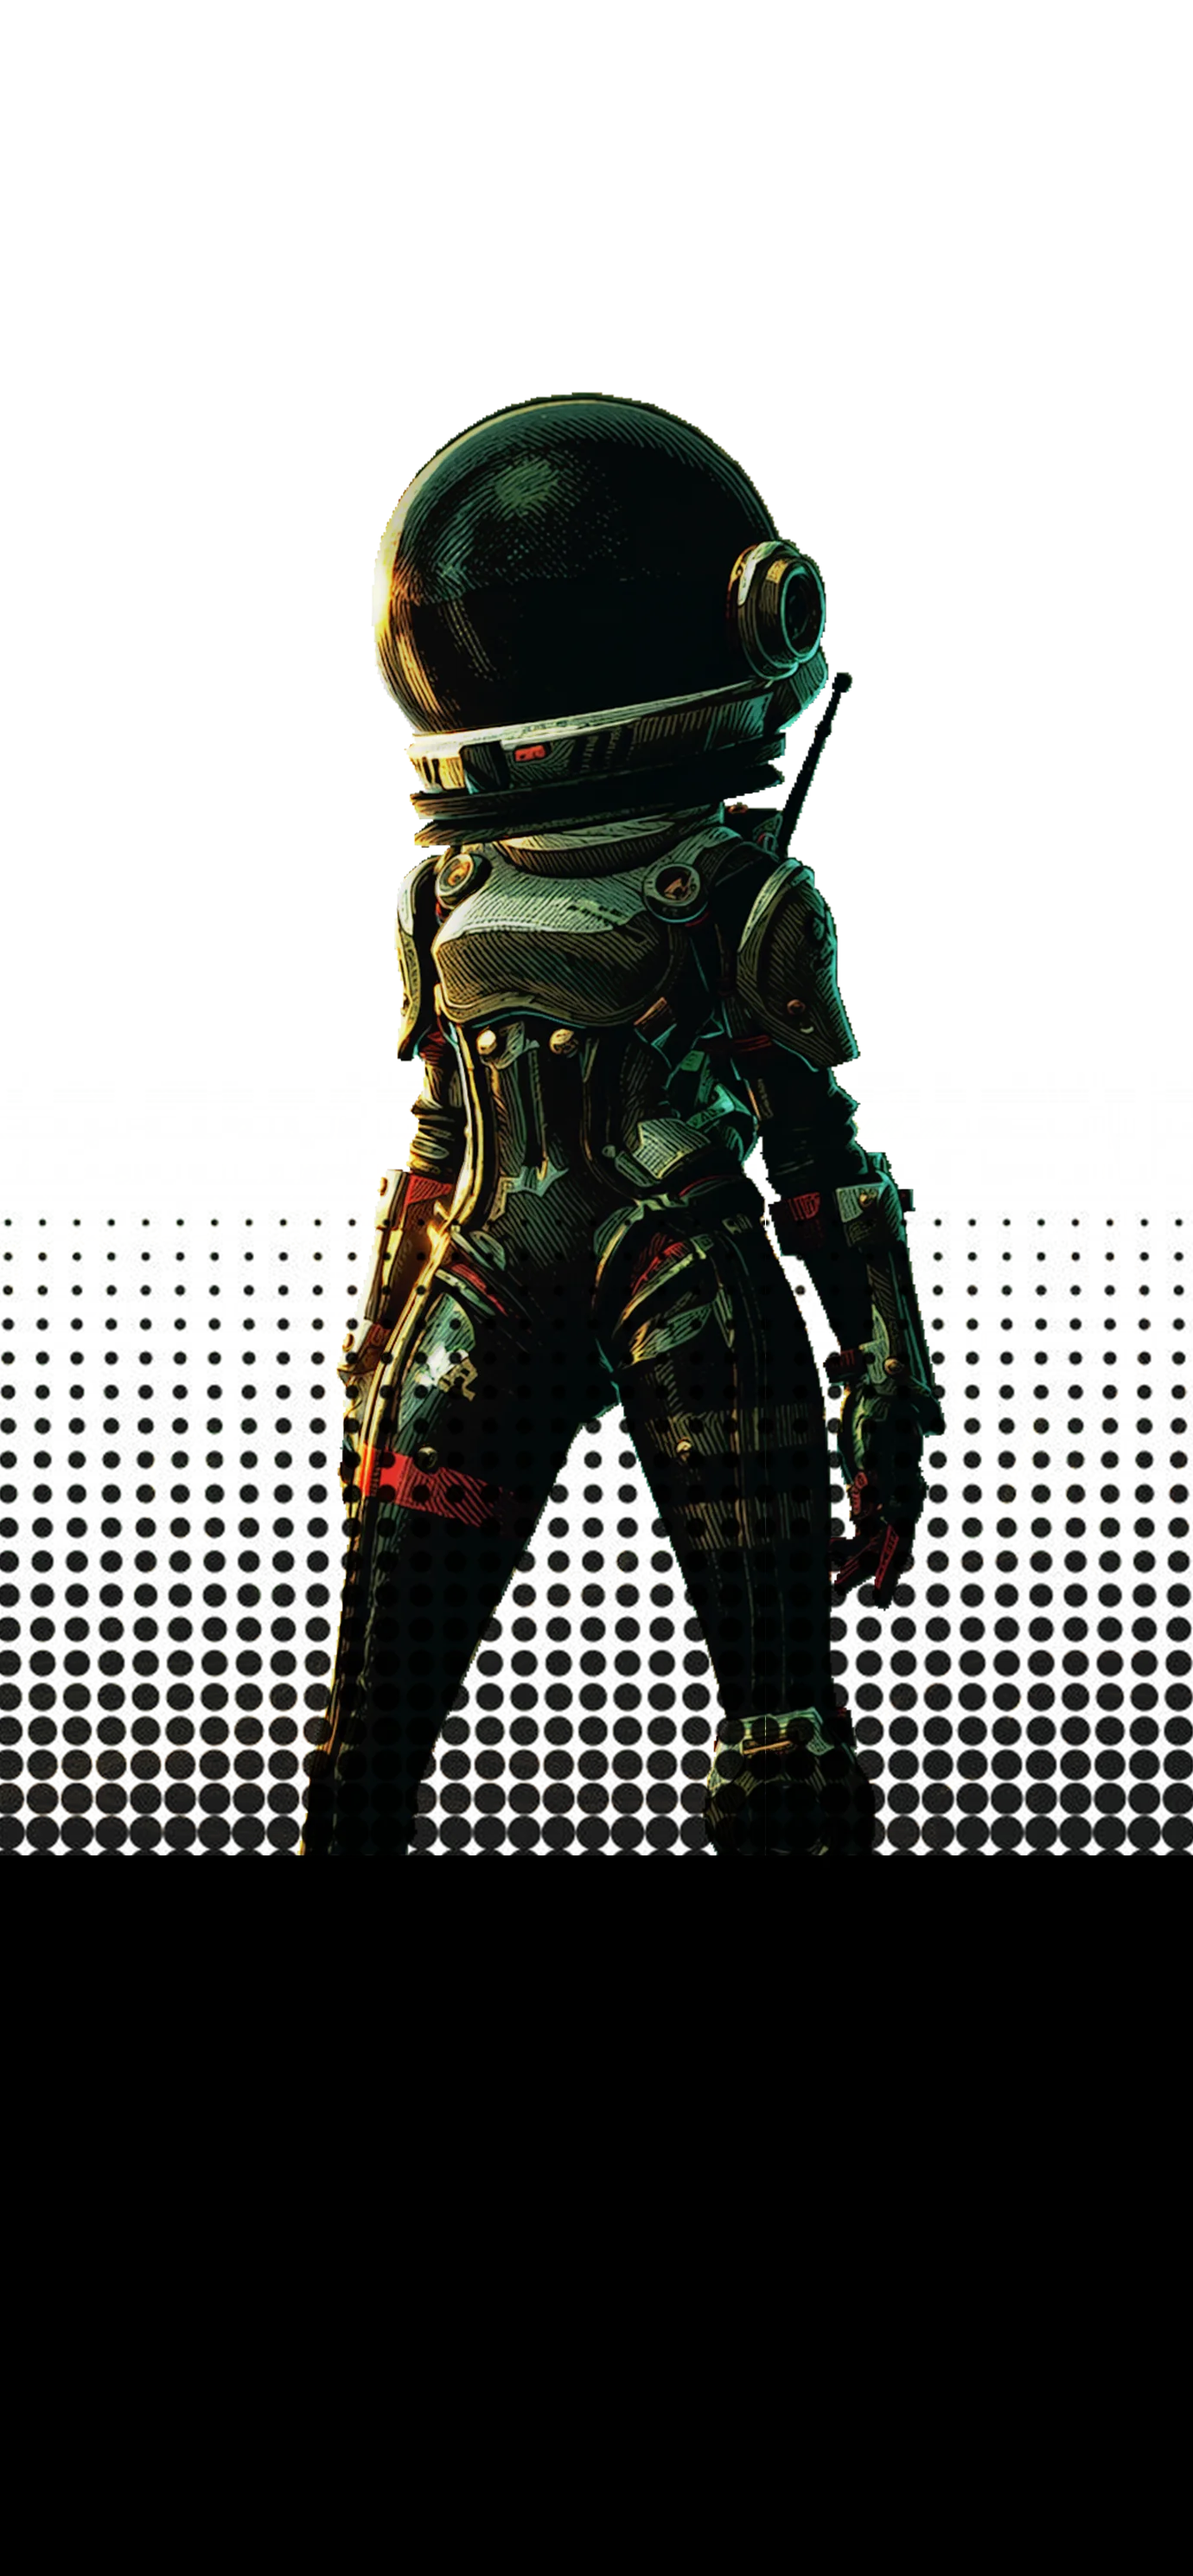
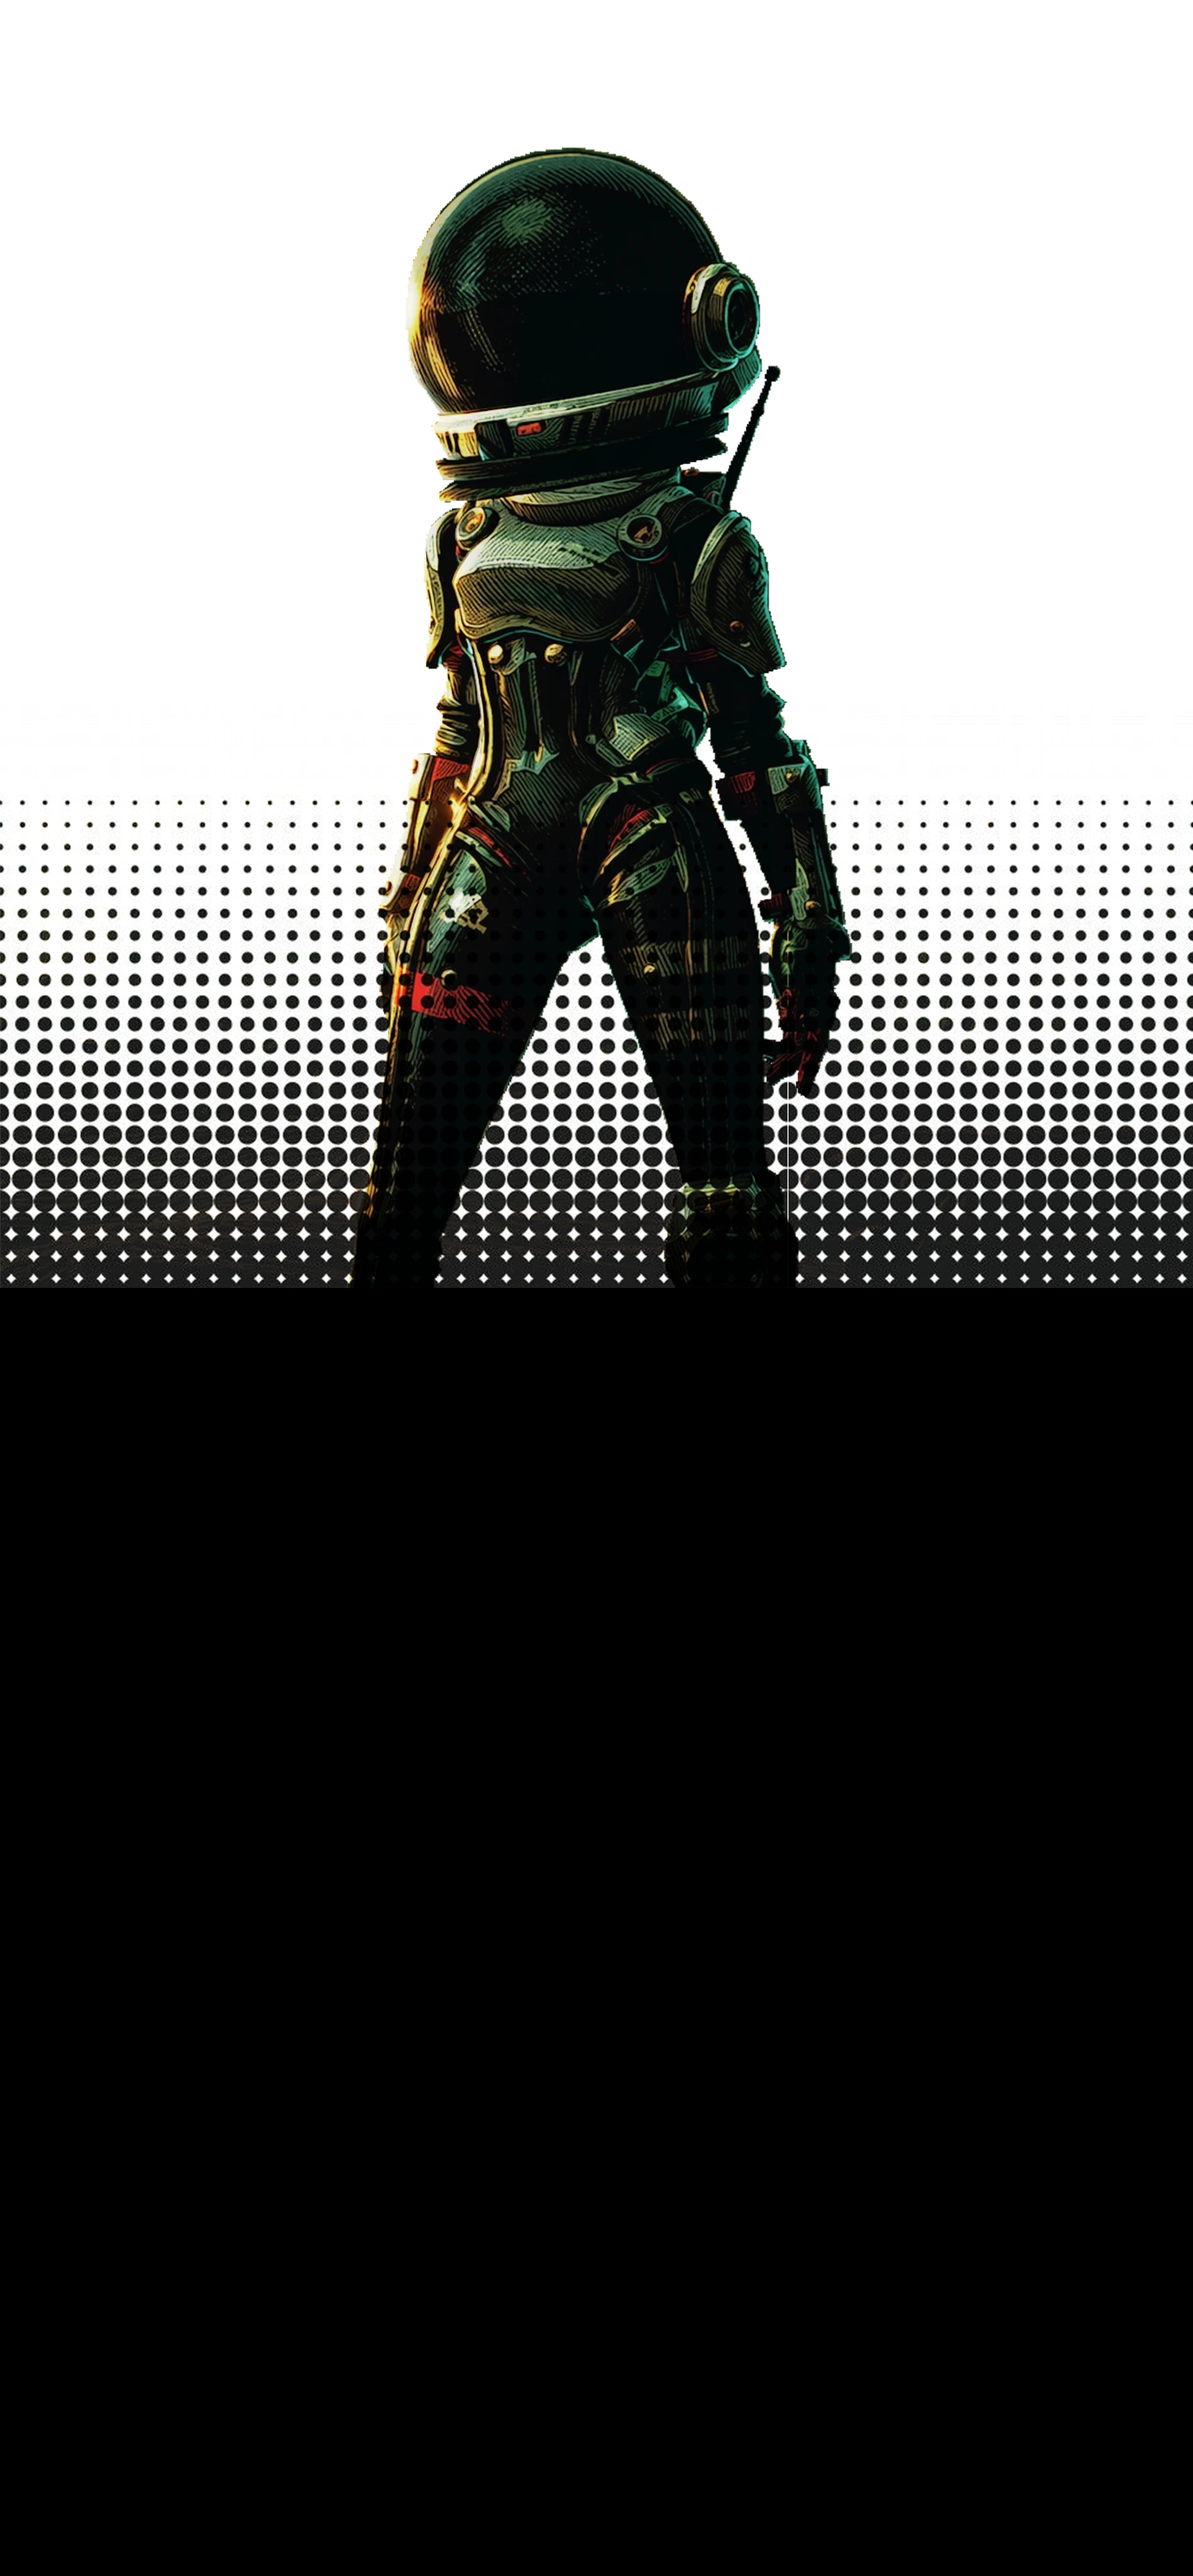
Update mobile hero background art and glitch mask, nudge content down 30px
New character key art replaces the mobile hero background; glitch effect
layers (character cutout / glitchzone) regenerated from the matching new
mask so the RGB-split glitch no longer shows the old character. Hero
content (title, subtitle, buttons, video) shifted down 30px on mobile so
it overlaps the character less.

diff --git a/style.css b/style.css
@@ -843,7 +843,8 @@ label,
   .hero-content {
     max-width: 100%;
     width: 100%;
-    margin: 32vh 0 0;       /* 아래에 트레일러 영상이 추가되어 살짝 위로 */
+    /* 타이틀 등이 배경 캐릭터를 너무 가려 30px 더 내림(그 아래 Epic 박스 등도 자연히 같이 내려감) */
+    margin: calc(32vh + 30px) 0 0;
   }
   .hero-overlay {
     /* 키비주얼 자체에 하단 검정 페이드가 있어 오버레이는 아주 약하게만 */
